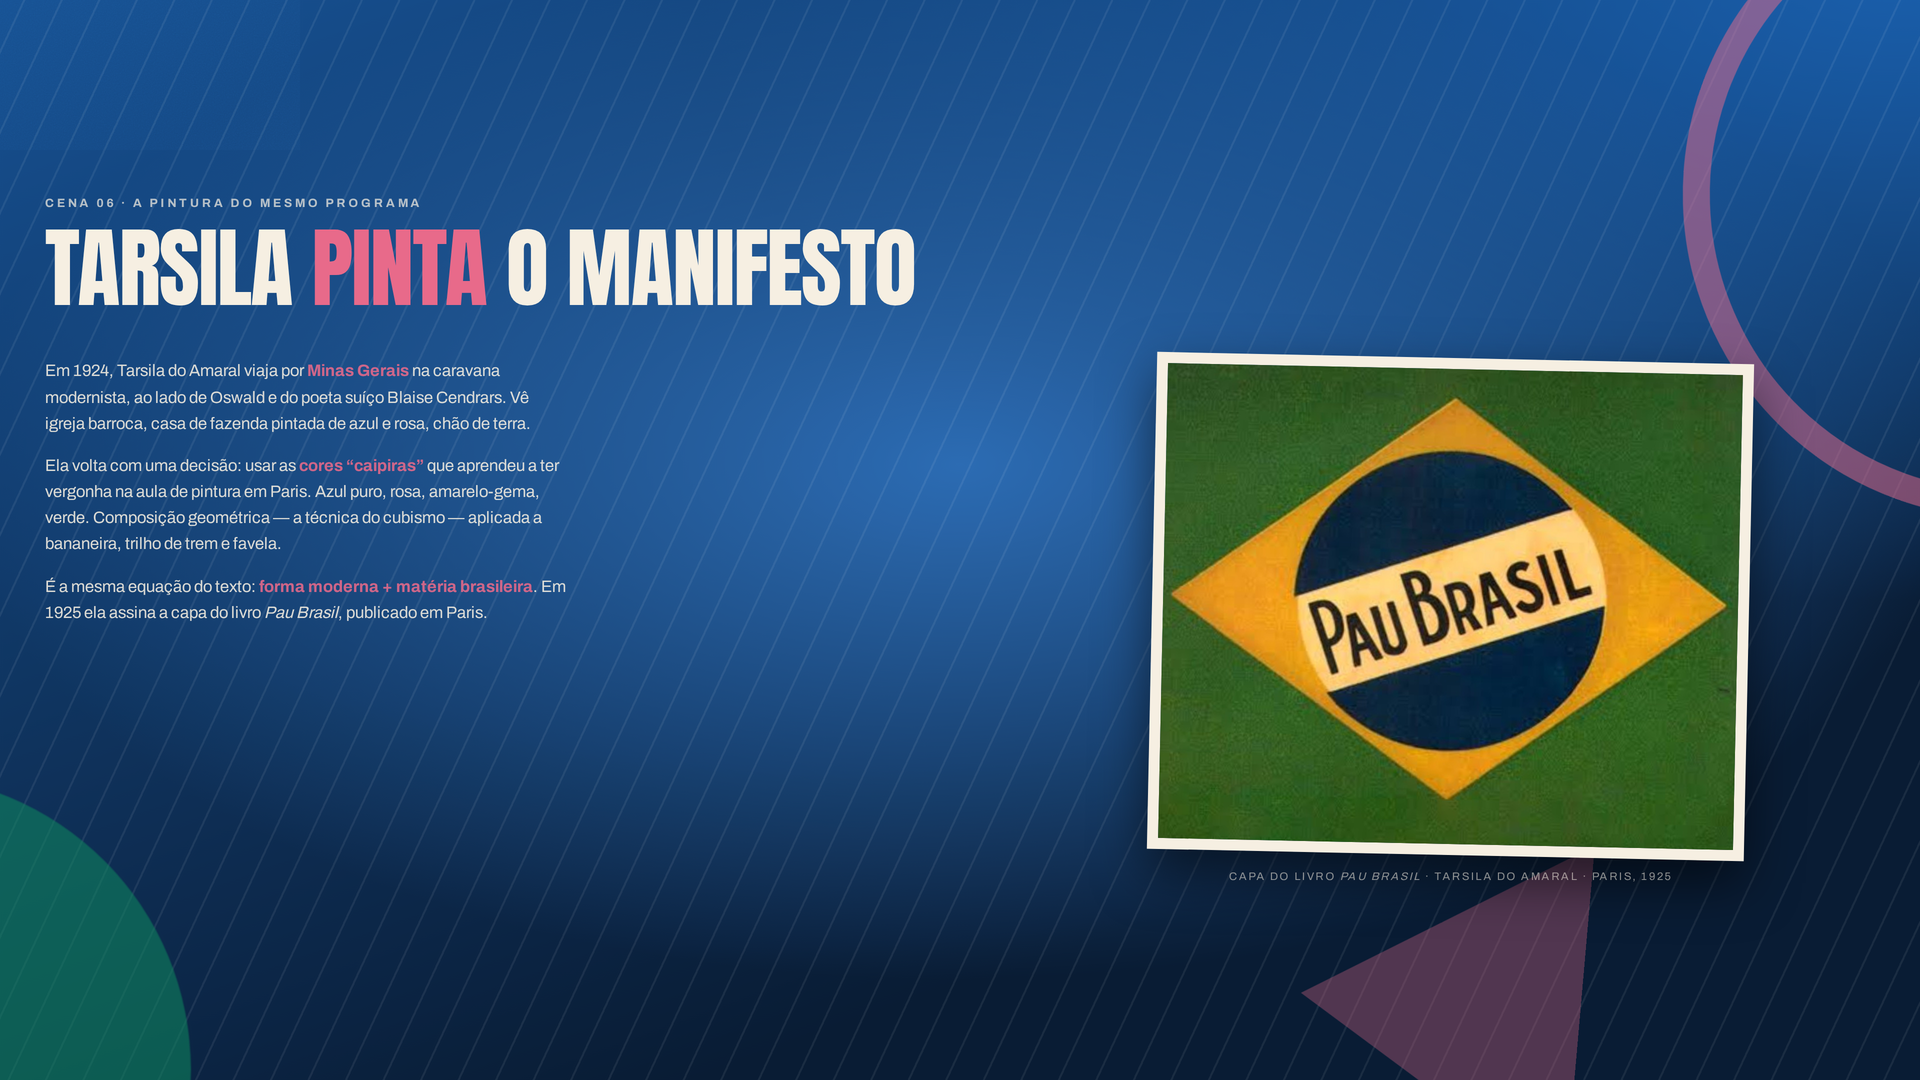
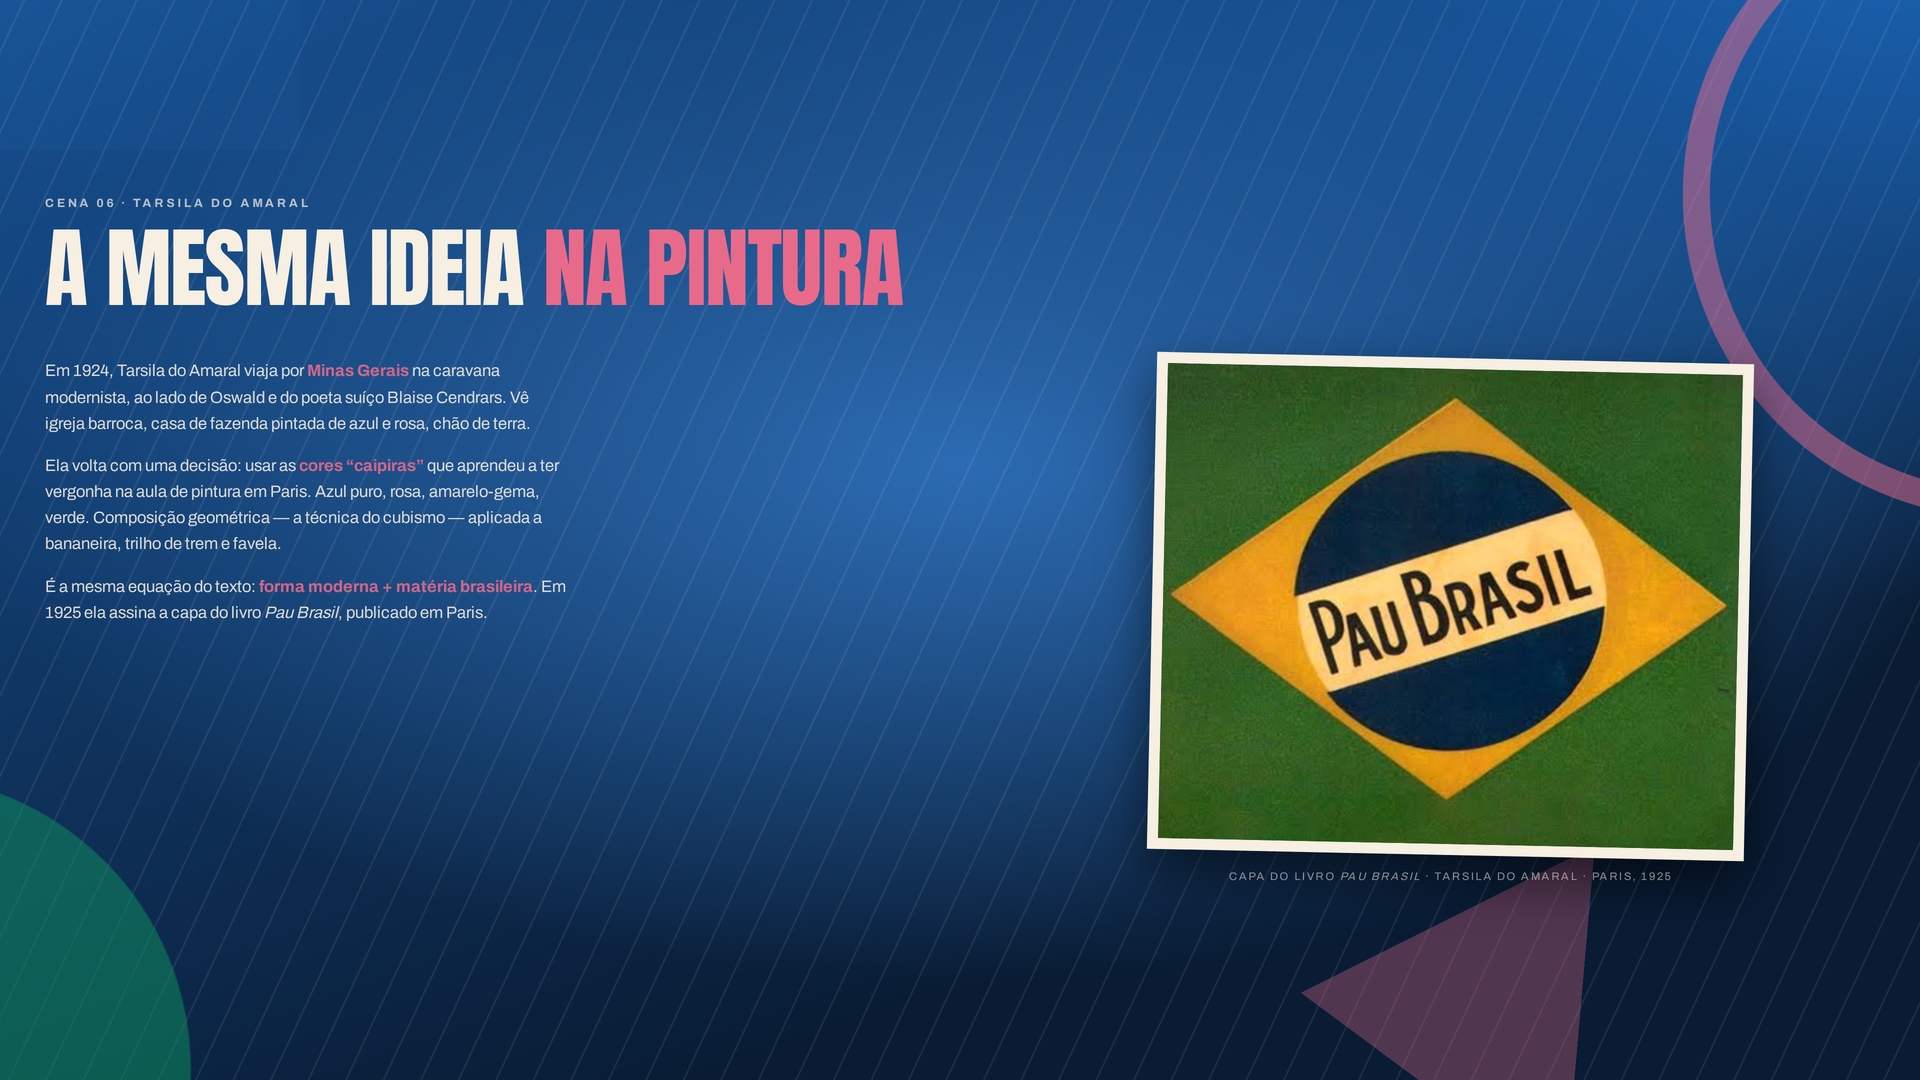
Ajusta o titulo da cena da Tarsila
"Tarsila pinta o manifesto" virava confusao com a capa do livro. Passa a
"A mesma ideia na pintura". Reexporta PNGs e PDF.

Claude-Session: https://claude.ai/code/session_01Vs2HGvBuRH71FrhfWbvT4t

Changed region(s): [[0.0, 0.1833, 0.5, 0.3056]]

diff --git a/pau-brasil.html b/pau-brasil.html
@@ -497,8 +497,8 @@ body{
   <section class="cena" data-bg1="#1d5fa8" data-bg2="#0a1c33" data-acc="#e86a8a" data-s1="#0f8a5f" data-s2="#e86a8a">
     <div class="grade duas">
       <div class="topo rev" style="--d:0">
-        <span class="tag">Cena 06 · A pintura do mesmo programa</span>
-        <h2 class="titulo grande" style="margin-top:.25em">Tarsila <span class="risca">pinta</span> o manifesto</h2>
+        <span class="tag">Cena 06 · Tarsila do Amaral</span>
+        <h2 class="titulo grande" style="margin-top:.25em">A mesma ideia <span class="risca">na pintura</span></h2>
       </div>
       <div class="rev" style="--d:2">
         <p class="corpo">Em 1924, Tarsila do Amaral viaja por <b>Minas Gerais</b> na caravana modernista,
